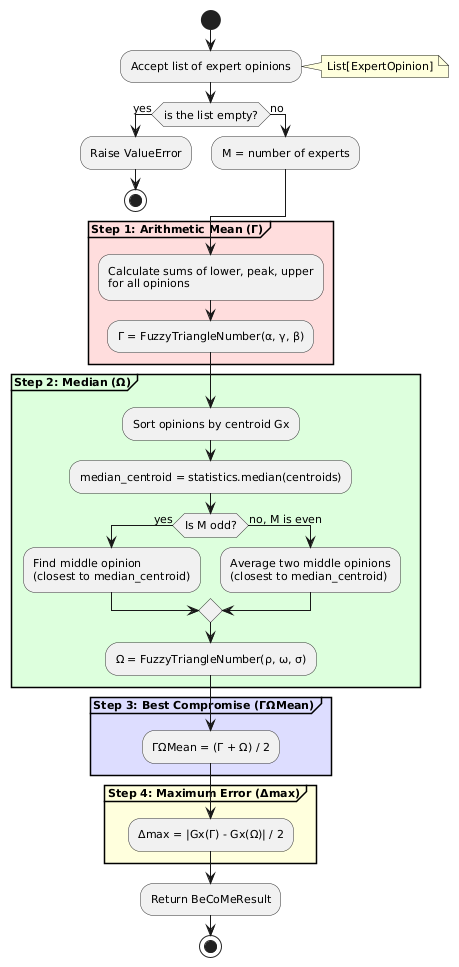
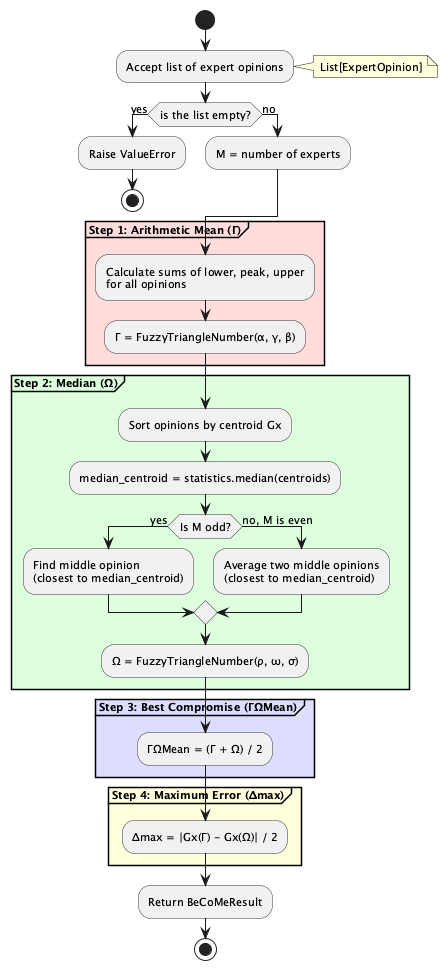
docs: update UML diagrams and diagram generator
Rename "Template Method" to "Abstract Base Class" in
class-diagram-patterns (cs/en). Regenerate all PNGs
with local plantuml CLI. Refactor generate_diagrams.py
to use subprocess pipe mode.

diff --git a/docs/uml-diagrams/generate_diagrams.py b/docs/uml-diagrams/generate_diagrams.py
@@ -1,22 +1,45 @@
 #!/usr/bin/env python3
 """Generate PNG images from PlantUML source files for all language versions."""
 
+import shutil
+import subprocess
 import sys
 from pathlib import Path
 
-import plantuml  # type: ignore[import-untyped]
+
+def _check_plantuml() -> str:
+    """Return path to plantuml executable or exit with an error."""
+    path = shutil.which("plantuml")
+    if path is None:
+        print(
+            "Error: plantuml CLI not found in PATH.\nInstall via Homebrew: brew install plantuml",
+            file=sys.stderr,
+        )
+        sys.exit(1)
+    return path
 
 
-def generate_diagram(puml_file: Path, output_file: Path) -> None:
-    """Generate PNG from PlantUML source."""
+def generate_diagram(plantuml_bin: str, puml_file: Path, output_file: Path) -> None:
+    """Generate PNG from PlantUML source using local CLI with pipe mode."""
     print(f"  Generating {output_file.name}...")
-    server = plantuml.PlantUML(url="https://www.plantuml.com/plantuml/img/")
-    server.processes_file(filename=str(puml_file), outfile=str(output_file))
+    with open(puml_file, "rb") as src, open(output_file, "wb") as dst:
+        result = subprocess.run(
+            [plantuml_bin, "-tpng", "-pipe"],
+            stdin=src,
+            stdout=dst,
+            stderr=subprocess.PIPE,
+            text=False,
+        )
+    if result.returncode != 0:
+        output_file.unlink(missing_ok=True)
+        stderr = result.stderr.decode().strip() if result.stderr else ""
+        raise RuntimeError(stderr or f"plantuml exited with code {result.returncode}")
     print(f"  ✓ {output_file.name}")
 
 
 def main() -> None:
     """Generate all UML diagrams for both language versions (cs, en)."""
+    plantuml_bin = _check_plantuml()
     base_dir = Path(__file__).parent
     languages = ["cs", "en"]
     diagrams = [
@@ -48,7 +71,7 @@ def main() -> None:
                 continue
 
             try:
-                generate_diagram(puml_file, png_file)
+                generate_diagram(plantuml_bin, puml_file, png_file)
             except Exception as e:
                 print(f"  ✗ {name}: {e}", file=sys.stderr)
                 failed = True

diff --git a/docs/uml-diagrams/cs/README.md b/docs/uml-diagrams/cs/README.md
@@ -34,7 +34,7 @@ Zdrojové soubory jsou v `diagrams/puml/`. Pro regeneraci PNG:
 uv run python docs/uml-diagrams/generate_diagrams.py
 ```
 
-Vyžaduje balíček `plantuml` a připojení k internetu (používá online službu PlantUML).
+Vyžaduje lokálně nainstalovaný `plantuml` CLI (`brew install plantuml`).
 
 ## Související
 

diff --git a/docs/uml-diagrams/en/README.md b/docs/uml-diagrams/en/README.md
@@ -34,7 +34,7 @@ Source files live in `diagrams/puml/`. To regenerate PNGs:
 uv run python docs/uml-diagrams/generate_diagrams.py
 ```
 
-Requires `plantuml` package and internet connection (uses PlantUML online service).
+Requires `plantuml` CLI installed locally (`brew install plantuml`).
 
 ## Related
 
